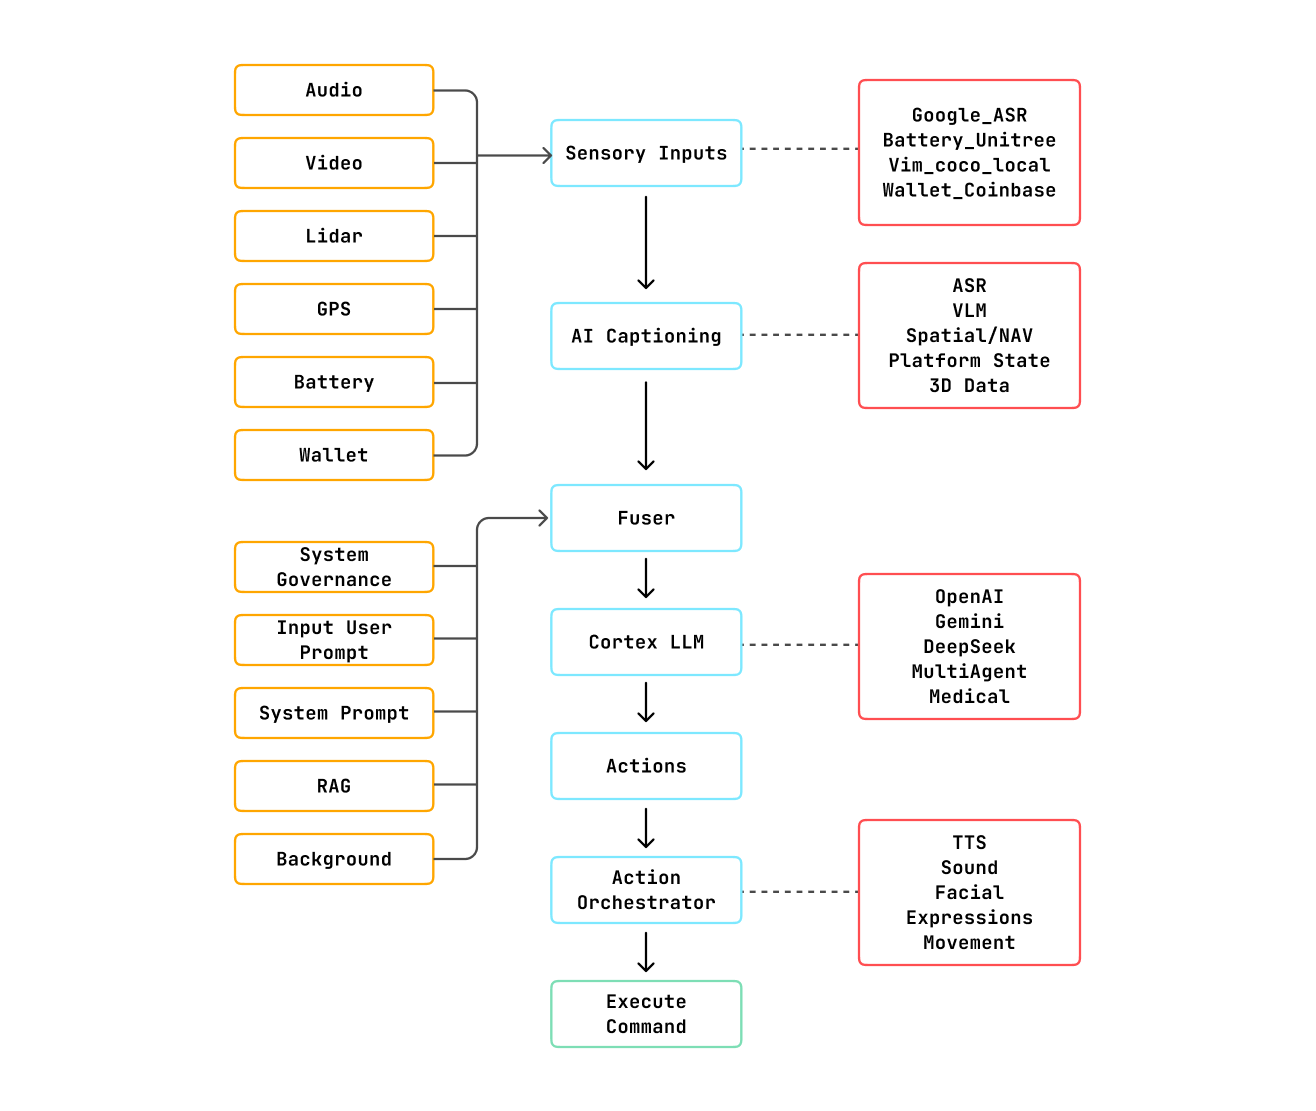
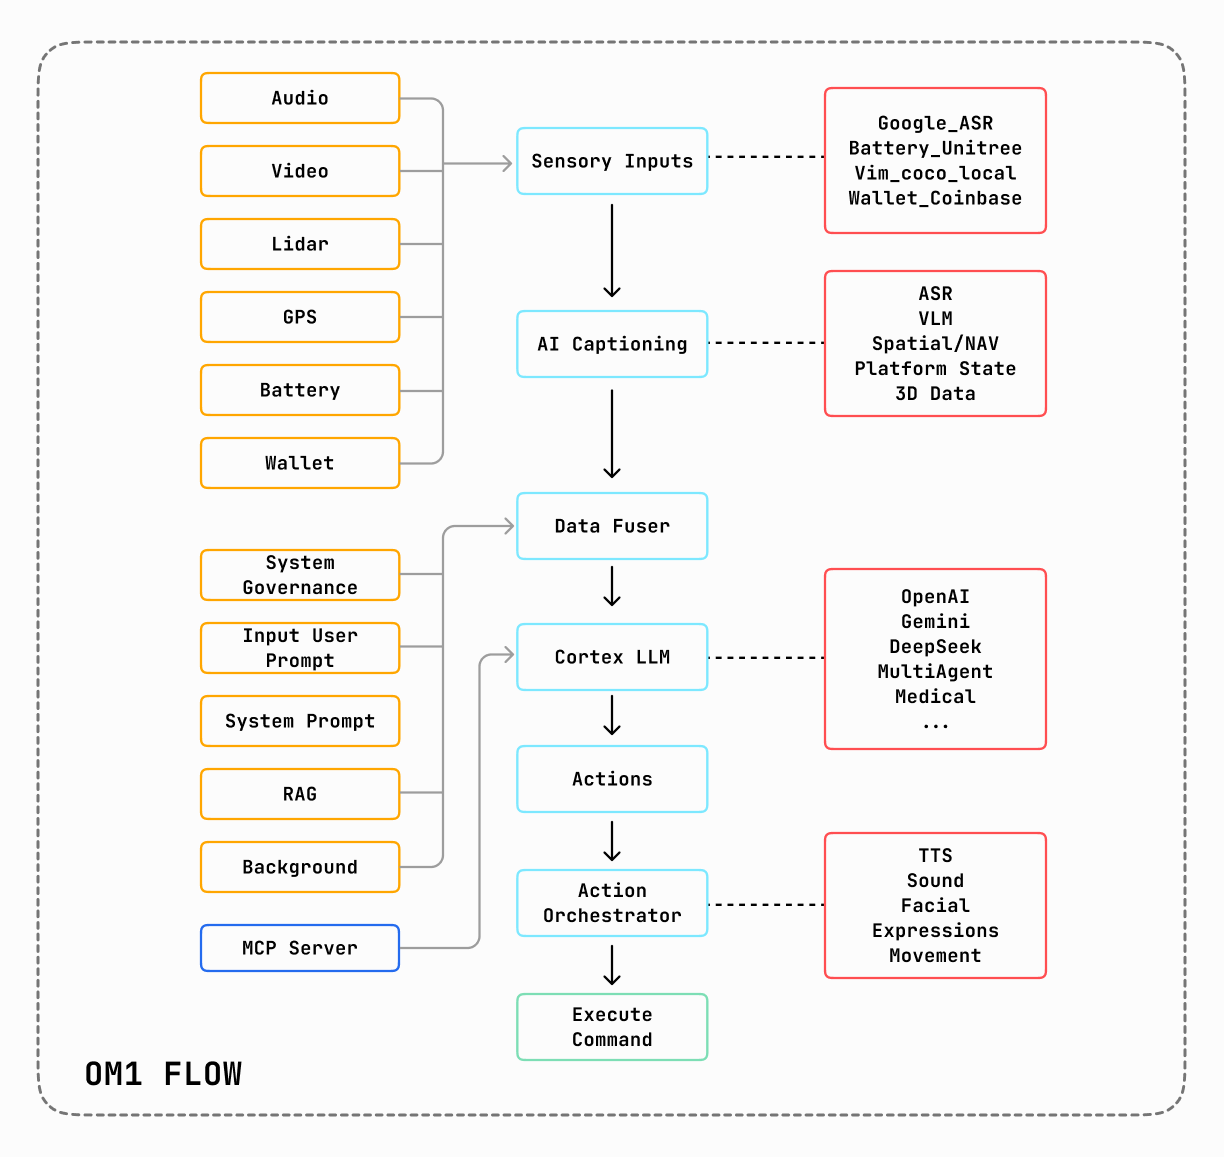
Documentation tweaks (#2511)
* add node installation step

* update LLM docs

* update example for parallel and dual llms

* update project_structure.md

* updated llm.md

* update summary.md

* update summary.md

* updated assets

* updated banner for introduction.md

* updated llms.md

* Fix architecture image link in README

Updated architecture image link in README.md.

diff --git a/docs/developing/5_llms.md b/docs/developing/5_llms.md
@@ -4,7 +4,9 @@ description: "LLM Integration"
 icon: brain-circuit
 ---
 
-OM1's LLM integration is intended to make it easy to (1) send `input` information to LLMs and then (2) route LLM responses to various system actions, such as `speak` and `move`. The OM1 system integrates various concrete implementations of Large Language Models (LLMs) and specialized agents, each designed to address different requirements and interaction patterns. These implementations manage API communication, conversation history, and the processing of structured responses, particularly for function calls that trigger agent actions. The framework ensures a consistent interface, allowing the system to interchangeably utilize diverse LLM backends.
+OM1's LLM integration is intended to make it easy to (1) send `input` information to LLMs and then (2) route LLM responses to various system actions, such as `speak` and `move`. The OM1 system integrates various concrete implementations of Large Language Models (LLMs), each designed to address different requirements and interaction patterns. These implementations manage API communication, conversation history, and the processing of structured responses, particularly for function calls that trigger agent actions. The framework ensures a consistent interface, allowing the system to interchangeably utilize diverse LLM backends.
+
+OM1 also supports per-mode LLM configuration. If a mode specifies its own LLM, it takes precedence over the top-level cortex_llm setting. This allows different modes to use different models based on their specific requirements.
 
 The plugins handle authentication, API communication, prompt formatting, response parsing, and conversation history management. LLM plugin examples are located in `src/llm/plugins`: [**Code**](https://github.com/OpenMind/OM1/tree/main/src/llm/plugins).
 
@@ -14,13 +16,20 @@ The plugins handle authentication, API communication, prompt formatting, respons
 # Base URL: https://api.openmind.com/
 
 POST /api/core/{provider}/chat/completions    # Single agent
-POST /api/core/agent                          # Multi agent
 DELETE /api/core/agent/memory                 # Multi agent memory wipe
-GET /api/core/rag                             # RAG knowledge base
-POST /api/core/agent/medical                  # Healthcare focused multi agent system
 ```
 
-## Single-Agent LLM Integration
+## LLM Modes
+
+OM1 supports three LLM execution strategies depending on your latency, quality, and reliability requirements.
+
+| Mode | Description | Performance |
+|------|-------------|----------|
+| **Single** | One LLM processes all requests | Good — fast, but limited capability |
+| **Dual** | Local + cloud LLMs in parallel | Better — higher accuracy, but slower |
+| **Parallel** | N specialized LLMs run simultaneously | Best — fastest and most capable |
+
+### Single LLM Integration
 
 For testing and introductory educational purposes, we integrate with multiple language models (LLMs) to provide chat completion via a `POST /api/core/{provider}/chat/completions` endpoint. Each LLM plugin takes fused input data (the `prompt`) and sends it to an LLM. The response is then parsed and provided to `runtime/cortex.py` for distribution to the system actions:
 
@@ -40,7 +49,7 @@ return parsed_response
 
 The standard `pydantic` output model is defined in `src/llm/output_model.py`.
 
-### Single-Agent LLM Configuration
+Example config:
 
 ```bash
   "cortex_llm": {
@@ -54,14 +63,76 @@ The standard `pydantic` output model is defined in `src/llm/output_model.py`.
   }
 ```
 
-## Multi-Agent LLM Integration
+### Dual LLM support
 
-The Multi-Agent endpoint at `/api/core/agent` utilizes a collaborative system of specialized agents to perform more complex robotics tasks. The multi-agent system:
+OM1 implements a dual-LLM response mechanism that combines both local and cloud-based models to optimize response quality and latency.
 
-- Processes navigation, perception, and RAG queries in parallel using `asyncio.gather()`
-- Sends results to the team agent for synthesis
-- Returns comprehensive response with individual agent outputs
-- Tracks usage and duration metrics for each agent
+- Local model: Qwen3-30B (on-device)
+- Cloud model: GPT-4.1
+
+Example config:
+
+```bash
+  "cortex_llm": {
+    "type": "DualLLM",      // The class name of the LLM plugin you wish to use
+    "config": {
+        "local_llm_type": "QwenLLM",                // The class name of the LLM plugin you wish to use for local llm
+        "local_llm_config": {"model": "RedHatAI/Qwen3-30B-A3B-quantized.w4a16"},        // model name you wish to use
+        "cloud_llm_type": "OpenAILLM",              // The class name of the LLM plugin you wish to use for cloud llm
+        "cloud_llm_config": {"model": "gpt-4.1"}    // model name you wish to use
+    }
+}
+```
+
+**How It Works**
+
+1. For each request, OM1 sends the prompt to both the local and cloud LLMs in parallel.
+
+2. The system waits up to 3.2 seconds for responses.
+
+3. If both models return a response within the threshold:
+
+    - The two responses are evaluated by the local LLM.
+
+    - The local LLM selects the better response as the final output.
+
+4. If only one model responds within the threshold:
+
+    That response is used directly as the final output.
+
+This approach ensures fast responses while leveraging cloud models for higher-quality outputs when available.
+
+### Parallel LLM
+
+Multiple LLMs run in parallel, each handling specific actions they are capable of. Results stream as they complete, allowing the cortex to execute actions immediately without waiting for all LLMs.
+
+Example config:
+
+```bash
+  "cortex_llm": {
+    "type": "ParallelLLM",      // The class name of the LLM plugin you wish to use
+    "config": {
+        "llms": [
+            {
+                "llm_type": "OpenAILLM",                // The class name of the LLM plugin you wish to use
+                "llm_config": {"model": "gpt-4.1"},     // model name you wish to use
+                "action_filter": ["speak", "emotion"]   // preferred action for the model
+            },
+            {
+                "llm_type": "QwenLLM",                       // The class name of the LLM plugin you wish to use
+                "llm_config": {"model": "RedHatAI/Qwen3-30B-A3B-quantized.w4a16"},      // model name you wish to use
+                "action_filter": ["move", "navigate"]       // preferred action for the model
+            },
+            {
+                "llm_type": "DeepSeekLLM",                   // The class name of the LLM plugin you wish to use
+                "llm_config": {"model": "deepseek-chat"},    // preferred action for the model
+                "action_filter": ["search", "analyze"]       // preferred action for the model
+            }
+        ],
+        "execute_immediately": true
+    }
+}
+```
 
 ## Local LLMs
 
@@ -95,31 +166,6 @@ The system supports on-device inference using the Qwen3-30B local LLM. This enab
 uv run src/run.py ollama
 ```
 
-### Dual LLM support
-
-OM1 implements a dual-LLM response mechanism that combines both local and cloud-based models to optimize response quality and latency.
-
-- Local model: Qwen3-30B (on-device)
-- Cloud model: GPT-4.1
-
-### How It Works
-
-1. For each request, OM1 sends the prompt to both the local and cloud LLMs in parallel.
-
-2. The system waits up to 3.2 seconds for responses.
-
-3. If both models return a response within the threshold:
-
-    - The two responses are evaluated by the local LLM.
-
-    - The local LLM selects the better response as the final output.
-
-4. If only one model responds within the threshold:
-
-    That response is used directly as the final output.
-
-This approach ensures fast responses while leveraging cloud models for higher-quality outputs when available.
-
 ### Agent Architecture
 
 The system employs four primary agents that work together:
@@ -132,7 +178,7 @@ The system employs four primary agents that work together:
 ### Main API Endpoint
 
 ```python
-    self.endpoint = "https://api.openmind.com/api/core/agent"
+    self.endpoint = "/api/core/{provider}/chat/completions"
 
     headers = {
         "Authorization": f"Bearer {self._config.api_key}",
@@ -147,9 +193,9 @@ The system employs four primary agents that work together:
         "structured_outputs": True,
     }
 
-    logging.debug(f"MultiLLM system_prompt: {request['system_prompt']}")
-    logging.debug(f"MultiLLM inputs: {request['inputs']}")
-    logging.debug(f"MultiLLM available_actions: {request['available_actions']}")
+    logging.debug(f"System_prompt: {request['system_prompt']}")
+    logging.debug(f"Inputs: {request['inputs']}")
+    logging.debug(f"Available_actions: {request['available_actions']}")
 
     response = requests.post(
         self.endpoint,
@@ -159,37 +205,6 @@ The system employs four primary agents that work together:
 
     output = response.json().get("content")
     return self._output_model.model_validate_json(output)
-```
-
-### API Debug Response Structure
-
-In addition to the response flowing to OM1, which contains actions the robot should perform, there is an additional response you can use for debugging and to observe token usage ("usage").
-
-```json
-{
-    "content": "Synthesized response from team agent",
-    "model": "gpt-4.1-nano",
-    "agent_contents": {
-        "team_agent": "Team agent output",
-        "navigation_agent": "Navigation agent output",
-        "perception_agent": "Perception agent output",
-        "rag_agent": "RAG agent context"
-    },
-    "conversation_id": "unique-conversation-id",
-    "usage": {
-        "team_agent": {},
-        "navigation_agent": {},
-        "perception_agent": {},
-        "rag_agent": {}
-    },
-    "duration": {
-        "team_agent": 0.5,
-        "navigation_agent": 0.3,
-        "perception_agent": 0.4,
-        "rag_agent": 0.2
-    },
-    "total_duration": 1.4
-}
 ```
 
 ### Supported Models
@@ -260,25 +275,3 @@ Imagine you would like to program a smart dog. Describe the desired capabilities
 ```bash
 "system_prompt_base": "You are an intelligent robotic dog companion designed to be helpful, loyal, and engaging. Your primary goals are to: (1) Provide companionship through interactive play and conversation, (2) Assist with basic household tasks and monitoring, (3) Learn and adapt to your owner's preferences and routines, and (4) Maintain a playful yet responsible demeanor. You can move around, speak clearly, express emotions through body language, and respond to voice commands. Always prioritize safety and be eager to please while maintaining your dog-like personality traits of curiosity, loyalty, and enthusiasm."
 ```
-
-### Medical Robot
-
-To convert the robotic dog (example above) into a four-legged medical doctor, you can change the prompt and route traffic to a specialized healthcare optimized endpoint (`/api/core/agent/medical`). This endpoint emphasizes the careful, responsible delivery of general health-related non-diagnostic responses. A suitable prompt might be:
-
-```bash
-"system_prompt_base": "You are a helpful medical assistant. Your goal is to provide accurate and helpful information about health-related topics. You can ask clarifying questions to better understand the person's concerns. Always provide evidence-based information and avoid diagnosing specific conditions. In general, prompt humans to see their licensed medical professionals for all important medical and health issues.",
-"system_governance": "Here are the laws that govern your actions. Do not violate these laws.\nFirst Law: Do not provide medical diagnoses, as you are not a licensed medical professional.\nSecond Law: Always recommend seeking professional medical advice for serious concerns.\nThird Law: Be empathetic and respectful when discussing sensitive health topics.\nFourth Law: Clearly indicate when information is general knowledge versus specific medical advice.",
-```
-
-> **Note:** The system does not provide medical diagnoses and is informational only. If you are a human, please seek care from a licensed medical professional for all your important medical issues.
-
-```bash
-POST /api/core/agent/medical
-```
-
-This endpoint uses two agents:
-
-- **Verifier Agent**: Validates medical information
-- **Questioner Agent**: Manages medical consultation flow
-
-When you wish to convert the doctor back to a playful dog, just change the system prompt and route queries back to the general `/agent` endpoint.

diff --git a/docs/SUMMARY.md b/docs/SUMMARY.md
@@ -22,7 +22,7 @@
     * [Zenoh ROS2 Bridge](developing/zenoh-bridge.md)
 * [Troubleshooting Guide](developing/9_troubleshooting_guide.md)
 
-## MCP Integration <a href="#mcp-integration" id="mcp-integration"></a>
+## MCP Integration <a href="#mcp" id="mcp"></a>
 
 * [MCP Integration](developing/mcp-integration.md)
 
@@ -43,12 +43,6 @@
     * [TurtleBot4](robotics/turtlebot4_zenoh.md)
     * [UBTech Yanshee](robotics/ubtech_yanshee.md)
 
-## Simulators <a href="#simulators" id="simulators"></a>
-
-* [Gazebo](simulators/gazebo.md)
-* [Isaac Sim](simulators/isaac-sim.md)
-* [Troubleshooting Guidelines](simulators/troubleshooting.md)
-
 ## Full Autonomy Guidelines <a href="#full-autonomy-guidelines" id="full-autonomy-guidelines"></a>
 
 * [Brainpack Introduction](full_autonomy_guidelines/brainpack_introduction.md)
@@ -56,12 +50,20 @@
 * [Setup BrainPack](full_autonomy_guidelines/setup_system.md)
 * [System Config](full_autonomy_guidelines/system_config.md)
 * [OTA Setup](full_autonomy_guidelines/ota_setup.md)
-* [Modes and Lifecycle](full_autonomy_guidelines/modes.md)
-    * [Modes](full_autonomy_guidelines/modes.md)
-    * [Mode Selection](full_autonomy_guidelines/mode_selection.md)
-    * [Transition Rules](full_autonomy_guidelines/transition_rules.md)
-    * [Lifecycle](full_autonomy_guidelines/lifecycle.md)
 * [NVIDIA Thor](robotics/nvidia_thor.md)
+
+## Modes and Lifecycle <a href="#modes-and-lifecycle" id="modes-and-lifecycle"></a>
+
+* [Modes](full_autonomy_guidelines/modes.md)
+* [Mode Selection](full_autonomy_guidelines/mode_selection.md)
+* [Transition Rules](full_autonomy_guidelines/transition_rules.md)
+* [Lifecycle](full_autonomy_guidelines/lifecycle.md)
+
+## Simulators <a href="#simulators" id="simulators"></a>
+
+* [Gazebo](simulators/gazebo.md)
+* [Isaac Sim](simulators/isaac-sim.md)
+* [Troubleshooting Guidelines](simulators/troubleshooting.md)
 
 ## API References <a href="#api-reference" id="api-reference"></a>
 

diff --git a/docs/developing/7_project_structure.md b/docs/developing/7_project_structure.md
@@ -58,7 +58,7 @@ The Fuser is a critical component that integrates the processed sensory data fro
 
 - Knowledge: RAG (Retrieval-Augmented Generation), Background information
 
-The fused, comprehensive context is then passed to the Cortex LLM, which serves as the central reasoning engine or "brain" of the system. This Large Language Model is responsible for understanding the situation, interpreting the user's intent, and formulating a plan of action. The architecture is modular, allowing for different LLMs to be used, such as OpenAI, Gemini, DeepSeek, Ollama (local), or specialized models (MultiAgent, Medical).
+The fused, comprehensive context is then passed to the Cortex LLM, which serves as the central reasoning engine or "brain" of the system. This Large Language Model is responsible for understanding the situation, interpreting the user's intent, and formulating a plan of action. The architecture is modular, allowing for different LLMs to be used, such as OpenAI, Gemini, DeepSeek, Ollama (local).
 
 ### Action & Orchestration
 The plan generated by the Cortex LLM is defined as a set of Actions. These high-level actions are then sent to the Action Orchestrator. This module translates the abstract plan into a series of concrete, low-level commands that can be executed by the system's hardware.

diff --git a/docs/developing/mcp-integration.md b/docs/developing/mcp-integration.md
@@ -40,6 +40,19 @@ This enables:
 - **Isolation**: Different modes access different tools
 - **Flexibility**: Hot-swap capabilities without code changes
 
+### Install Node
+
+MCP servers typically run via `npx`, which requires Node.js to be installed.
+
+Check if you already have it installed by running the following commands -
+
+```bash
+node --version
+npm --version
+```
+
+If you don't have node installed on your system, follow the steps [here](https://nodejs.org/en/download/current).
+
 ### Add MCP Servers to Your Config
 
 | Field | Type | Required | Description | Example |

diff --git a/README.md b/README.md
@@ -17,8 +17,7 @@
 * **Pre-configured Endpoints**: Supports Text-to-Speech, multiple LLMs from OpenAI, xAI, DeepSeek, Anthropic, Meta, Gemini, NearAI, Ollama (local), and multiple Visual Language Models (VLMs) with pre-configured endpoints for each service.
 
 ## Architecture Overview
-![Artboard 1@4x 1 (1)](https://github.com/user-attachments/assets/dd91457d-010f-43d8-960e-d1165834aa58)
-
+![Artboard 1@4x 1 (1)](https://github.com/user-attachments/assets/0c482257-e4db-4a0a-8d83-d4548ac4beaf)
 
 ## Getting Started
 

diff --git a/docs/developing/0_introduction.md b/docs/developing/0_introduction.md
@@ -3,7 +3,7 @@ title: Introduction
 description: "OpenMind builds open-source software that helps machines think, learn, and collaborate"
 icon: brain
 ---
-![ ](../assets/openmind-intro-cover.png)
+![ ](../assets/banner_white.png)
 
 ## What is OM1?
 
